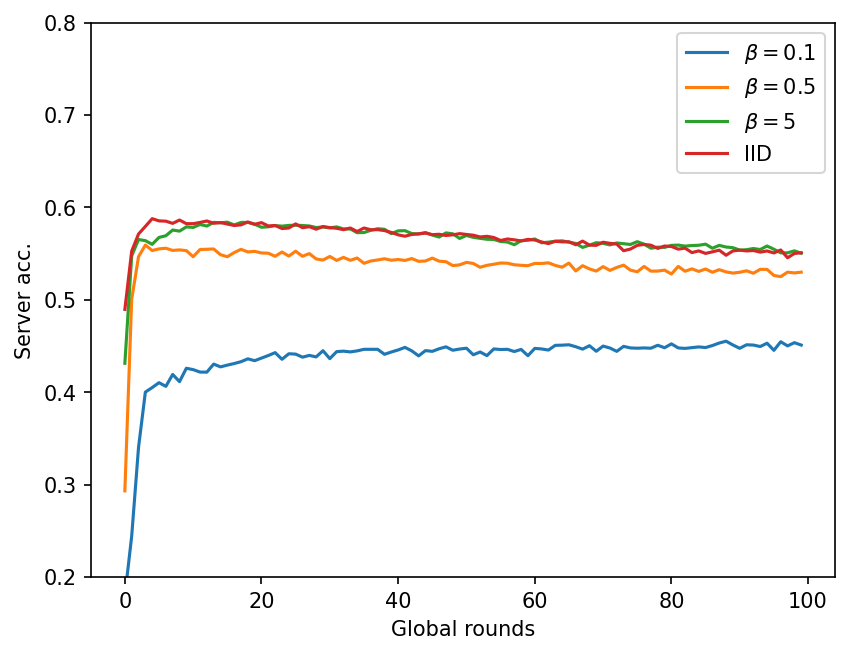
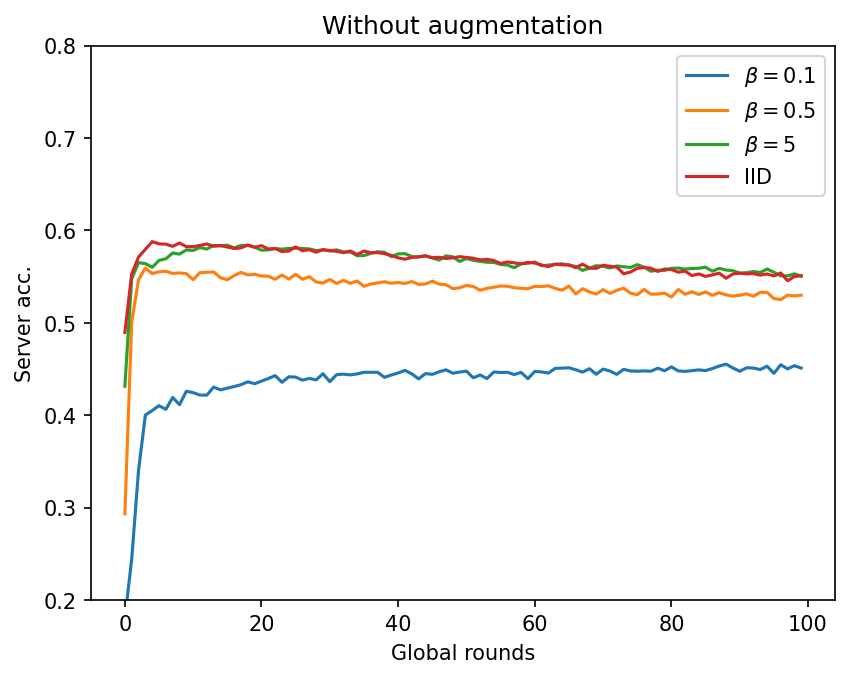
Update README

diff --git a/FedAvg/assets/draw.py b/FedAvg/assets/draw.py
@@ -11,6 +11,7 @@ def plot_fedavg():
     ax.set_ylim(0.2, 0.8)
     ax.set_xlabel('Global rounds')
     ax.set_ylabel('Server acc.')
+    ax.set_title('Without augmentation')
     ax.legend()
     fig.savefig('./fedavg.png', bbox_inches='tight', dpi=150)
     plt.close(fig)
@@ -25,6 +26,7 @@ def plot_fedavg_aug():
     ax.set_ylim(0.2, 0.8)
     ax.set_xlabel('Global rounds')
     ax.set_ylabel('Server acc.')
+    ax.set_title('With augmentation')
     ax.legend()
     fig.savefig('./fedavg_aug.png', bbox_inches='tight', dpi=150)
     plt.close(fig)

diff --git a/FedAvg/README.md b/FedAvg/README.md
@@ -9,15 +9,10 @@
 The following hyper-parameters are fixed for all experiments:
 
 - Number of clients: 10
-
 - Communication rounds: 100
-
 - Local epochs: 10
-
 - Batch size: 64
-
 - Network architecture (SimpleCNN):
-
   ```
   conv(3, 6, 5) + relu + maxpool
   conv(6, 16, 5) + relu + maxpool
@@ -25,12 +20,12 @@ The following hyper-parameters are fixed for all experiments:
   linear(120, 84) + relu
   linear(84, 10)
   ```
-
 - Optimizer: SGD
-
   - learning rate: 0.01
   - weight decay: 0.00001
   - momentum: 0.9
+
+
 
 I use two kinds of data partition methods: `IID` and `Dirichlet`.
 
